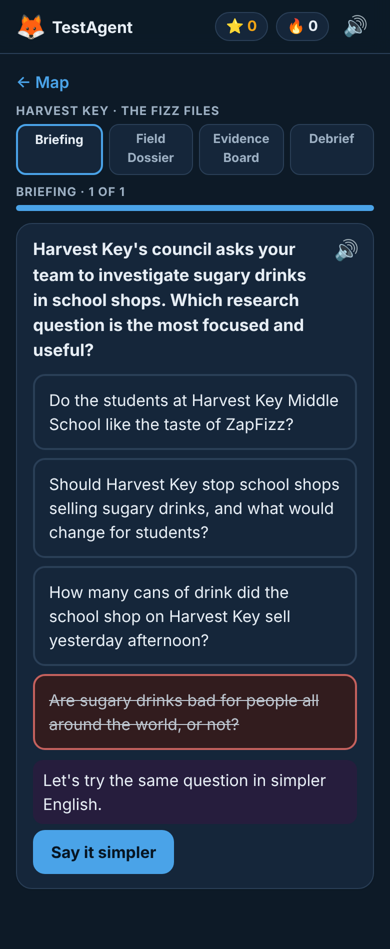
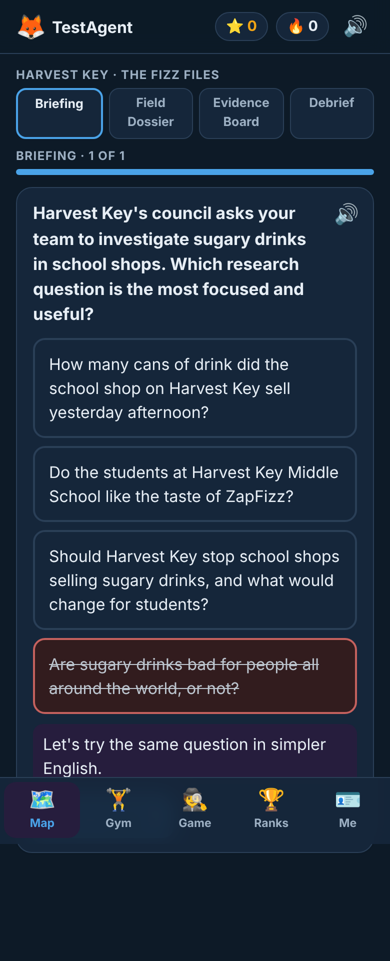
Make the app easier to use on phones
Bottom tab bar, feedback and Next scroll into view, Large text option,
first-run how-to-play card, add-to-home-screen manifest and icons, and
stop the game timers after leaving the page.

Claude-Session: https://claude.ai/code/session_01EAPUynE49AP6E55dj6PuSW

diff --git a/js/app.js b/js/app.js
@@ -28,11 +28,22 @@ function topbar() {
     <button class="icon" id="snd" aria-label="Sound on or off">${soundOn() ? "🔊" : "🔈"}</button>
   </header>`;
 }
-function page(html, { back = true } = {}) {
-  app.innerHTML = topbar() + `<main>${back ? `<a class="back" href="#/">← Map</a>` : ""}${html}</main>`;
+// Bottom tab bar: one thumb reaches everything on a phone.
+const TABS = [["#/", "🗺", "Map"], ["#/gym", "🏋", "Gym"], ["#/game", "🕵", "Game"], ["#/board", "🏆", "Ranks"], ["#/me", "🪪", "Me"]];
+function tabbar() {
+  const h = location.hash || "#/", now = h === "#/mission" || h === "#" ? "#/" : h;
+  return `<nav class="tabs" aria-label="Main">${TABS.map(([href, ic, name]) =>
+    `<a href="${href}" class="${now === href ? "on" : ""}" ${now === href ? 'aria-current="page"' : ""}><span aria-hidden="true">${ic}</span>${name}</a>`).join("")}</nav>`;
+}
+function page(html) {
+  app.innerHTML = topbar() + `<main>${html}</main>` + tabbar();
   $("#snd").onclick = () => { setSound(!soundOn()); route(); };
+  // Tapping the tab you are already on starts that screen again (the hash doesn't change, so call it directly).
+  app.querySelectorAll(".tabs a").forEach(a => a.onclick = e => { if (a.getAttribute("href") === (location.hash || "#/")) { e.preventDefault(); route(); } });
   window.scrollTo(0, 0);
 }
+const reducedMotion = () => matchMedia("(prefers-reduced-motion: reduce)").matches;
+const bring = el => el && el.scrollIntoView({ block: "nearest", behavior: reducedMotion() ? "auto" : "smooth" });
 
 /* ---------------- sign in (demo) ---------------- */
 function signIn() {
@@ -72,7 +83,14 @@ function islandHealth(world) {
 function home() {
   const open = S.teacher().open, done = missionProgress();
   const nextPhase = MISSION.phases.find(ph => !S.history().some(h => h.text_id === `fizz-${ph.kind}`));
-  page(`
+  const intro = S.profile().seenIntro ? "" : `<section class="card intro">
+      <h3>Welcome, Agent ${esc(S.profile().nick)}!</h3>
+      <ol><li><b>Do the mission</b> on an open island. Check sources and decide what to trust.</li>
+        <li><b>Train in the Gym</b>. Questions get harder as you improve.</li>
+        <li><b>Need help with English?</b> Tap <span class="gl">purple words</span> or 🔊. Help never costs XP.</li></ol>
+      <p class="small">Tip: add this app to your home screen. iPhone: Share → Add to Home Screen. Android: menu ⋮ → Add to Home screen.</p>
+      <button class="btn" id="introOk">Got it</button></section>`;
+  page(`${intro}
     <section class="hero card">
       <p class="kicker">Today's mission · Harvest Key</p>
       <h2>${MISSION.title}</h2>
@@ -93,7 +111,8 @@ function home() {
         <span class="ic">${w.icon}</span><b>${w.island}</b><small>${w.challenge} · ${w.title}</small>
         ${isOpen ? `<div class="bar health" title="Island health"><i style="width:${h}%"></i></div><small>Island health ${h}%${stamp ? " · 🛂" : ""}</small>`
                  : `<small class="lock">🔒 Opens with ${w.challenge} (${w.weeks})</small>`}
-      </${isOpen && w.missions ? "a" : "div"}>`; }).join("")}</div>`, { back: false });
+      </${isOpen && w.missions ? "a" : "div"}>`; }).join("")}</div>`);
+  const ok = $("#introOk"); if (ok) ok.onclick = () => { S.updateProfile({ seenIntro: true }); home(); };
 }
 
 /* ---------------- a question, at the student's support level ---------------- */
@@ -138,6 +157,7 @@ function runItems(ids, { title, onDone, pick } = {}) {
       box.querySelectorAll(".say").forEach(b => b.onclick = () => { help++; say(b.dataset.say === "src" ? SOURCES[it.source][wrap.text].replace(/\*\*/g, "") : it.stem[wrap.stem]); });
       box.querySelectorAll(".opt").forEach(b => b.onclick = () => choose(+b.dataset.k, b));
     }
+    const settle = () => requestAnimationFrame(() => bring(box.querySelector(".fb").lastElementChild));
     function choose(k, btn) {
       const o = it.options[k], fb = box.querySelector(".fb");
       if (k === 0) {
@@ -153,12 +173,12 @@ function runItems(ids, { title, onDone, pick } = {}) {
       if (tries === 1 && wrap.simpler && !simplified) {
         simplified = true; wrap = wrapping(1);
         fb.innerHTML = `<p class="info">Let's try the same question in simpler English.</p><button class="btn" id="cont">Say it simpler</button>`;
-        box.querySelector("#cont").onclick = draw; return;
+        box.querySelector("#cont").onclick = () => { draw(); box.scrollIntoView({ block: "start" }); }; settle(); return;
       }
       if ((tries === 1) || (simplified && tries === 2)) {
         play("info");
         fb.innerHTML = `<p class="info">💡 Hint: ${esc(it.hint)}</p>${o.trap && TRAPS[o.trap] ? `<p class="small">Watch out: <b>${TRAPS[o.trap].name}</b>. ${TRAPS[o.trap].tip}</p>` : ""}`;
-        return;
+        settle(); return;
       }
       box.querySelectorAll(".opt").forEach(b => { b.disabled = true; if (+b.dataset.k === 0) b.classList.add("right"); });
       finish({ support: "explained" }, `<p class="info">The answer is shown in green.</p><p>${esc(it.explain)}</p><p class="skilltag">${skillLine(it)}</p>`);
@@ -169,7 +189,8 @@ function runItems(ids, { title, onDone, pick } = {}) {
       answers.push(a); i++;
       const fb = box.querySelector(".fb");
       fb.innerHTML = html + `<button class="btn" id="next">${(pick ? answers.length >= ids : i >= ids.length) ? "Finish" : "Next"}</button>`;
-      box.querySelector("#next").onclick = show; box.querySelector("#next").focus();
+      box.querySelector("#next").onclick = () => { show(); box.scrollIntoView({ block: "start" }); };
+      box.querySelector("#next").focus({ preventScroll: true }); settle();
     }
     draw();
   }
@@ -316,6 +337,7 @@ function game() {
   let i = 0, pts = 0, combo = 0, timer = null;
   const draw = () => {
     clearTimeout(timer);
+    if (!arena.isConnected) return;                 // the student left the game: stop quietly
     if (i >= cards.length) return end();
     const c = cards[i]; $("#gleft").textContent = `${i + 1}/${cards.length}`;
     $("#gcard").innerHTML = `<p class="gt">${esc(c.t)}</p><div class="tb"><button class="btn trust" data-v="1">👍 Trust</button><button class="btn bust" data-v="0">🚫 Bust</button></div><p class="gwhy"></p>`;
@@ -324,6 +346,7 @@ function game() {
   };
   const answer = (v, e) => {
     clearTimeout(timer);
+    if (!arena.isConnected) return;
     const c = cards[i], ok = v === c.ok, r = arena.getBoundingClientRect();
     const x = e ? e.clientX - r.left : r.width / 2, y = e ? e.clientY - r.top : r.height / 2;
     if (ok) { combo++; const g = 100 + 20 * (combo - 1); pts += g; FX.flash(arena); FX.burst(arena, x, y); FX.floatText(arena, x, y, `+${g}`); }
@@ -341,7 +364,7 @@ function game() {
     $("#again").onclick = game;
     if (xp) Cel.set(xp); else play("done");
   };
-  FX.countdown(arena, draw);
+  FX.countdown(arena, () => arena.isConnected && draw());
 }
 
 /* ---------------- leaderboards ---------------- */
@@ -380,14 +403,19 @@ function me() {
     <h3 class="sec">English help</h3>
     <section class="card"><div class="levels">${SUPPORT.map((s, i) => `<label class="lv"><input type="radio" name="sup" value="${i}" ${i === prof.support ? "checked" : ""}><b>${s.name}</b><span>${s.desc}</span></label>`).join("")}</div>
     <p class="small">The app also adjusts this for you. More help never costs XP.</p></section>
+    <h3 class="sec">Text size</h3>
+    <section class="card"><div class="seg">${[["Normal", false], ["Large", true]].map(([n, v]) => `<button class="segb${!!prof.bigText === v ? " on" : ""}" data-big="${v}">${n}</button>`).join("")}</div></section>
     <button class="btn ghost" id="out">Sign out and reset demo</button>`);
+  app.querySelectorAll("[data-big]").forEach(b => b.onclick = () => { S.updateProfile({ bigText: b.dataset.big === "true" }); applyText(); me(); });
   app.querySelectorAll("input[name=sup]").forEach(x => x.onchange = () => { S.updateProfile({ support: +x.value, tasks: [] }); play("tap"); });
   $("#out").onclick = () => { if (confirm("Reset the demo? Your demo progress in this browser will be deleted.")) { S.signOut(); location.hash = ""; route(); } };
 }
 
 /* ---------------- routing ---------------- */
 const ROUTES = { "": home, "/": home, "/mission": missionScreen, "/gym": gym, "/game": game, "/board": board, "/me": me };
+const applyText = () => document.documentElement.classList.toggle("big-text", !!(S.profile() && S.profile().bigText));
 function route() {
+  applyText();
   if (!S.profile()) return signIn();
   soundUser(S.profile().nick);
   (ROUTES[location.hash.replace(/^#/, "")] || home)();

diff --git a/assets/style.css b/assets/style.css
@@ -12,9 +12,13 @@
     --good-bg: #133524; --bad-bg: #3a1a18; --info-bg: #261d3d; --sea: #12324a; color-scheme: dark; }
 }
 * { box-sizing: border-box; }
-html { -webkit-text-size-adjust: 100%; }
-body { margin: 0; background: var(--bg); color: var(--ink); font: 16px/1.5 system-ui, -apple-system, "Segoe UI", Roboto, sans-serif; }
-main { max-width: 640px; margin: 0 auto; padding: 12px 16px 48px; }
+html { -webkit-text-size-adjust: 100%; font-size: 16px; }
+html.big-text { font-size: 19px; }
+body { margin: 0; background: var(--bg); color: var(--ink); font: 1rem/1.5 system-ui, -apple-system, "Segoe UI", Roboto, sans-serif; }
+main { max-width: 640px; margin: 0 auto; padding: 12px 16px calc(96px + env(safe-area-inset-bottom)); }
+body.teacher main { padding-bottom: 48px; }
+button, a, input, label { touch-action: manipulation; }
+.runner { scroll-margin-top: 64px; } .fb > * { scroll-margin-bottom: 84px; }
 main.wide { max-width: 1100px; }
 h1, h2, h3, h4 { font-family: var(--f-head); line-height: 1.2; margin: .4em 0; }
 h1 { font-size: 1.8rem; } h2 { font-size: 1.4rem; } h3 { font-size: 1.1rem; }
@@ -151,3 +155,18 @@ a.island { border-color: var(--good); }
 .toggles { display: grid; gap: 4px; } .toggles label { font-weight: 400; margin: 4px 0; }
 
 @media (prefers-reduced-motion: reduce) { .bar i { transition: none; } }
+
+/* bottom tab bar */
+.tabs { position: fixed; left: 0; right: 0; bottom: 0; z-index: 20; display: grid; grid-template-columns: repeat(5, 1fr);
+  background: color-mix(in srgb, var(--card) 94%, transparent); backdrop-filter: blur(10px); border-top: 1px solid var(--line);
+  padding: 4px max(4px, env(safe-area-inset-right)) max(6px, env(safe-area-inset-bottom)) max(4px, env(safe-area-inset-left)); }
+.tabs a { display: flex; flex-direction: column; align-items: center; gap: 1px; padding: 6px 0; min-height: 52px; border-radius: 12px;
+  text-decoration: none; color: var(--muted); font-size: .72rem; font-weight: 700; }
+.tabs a span { font-size: 1.35rem; line-height: 1.2; }
+.tabs a.on { color: var(--brand); background: var(--info-bg); }
+@media (min-width: 700px) { .tabs { left: 50%; right: auto; width: 640px; translate: -50% 0; border: 1px solid var(--line); border-bottom: 0; border-radius: 16px 16px 0 0; } }
+/* first-run card, segmented control */
+.intro { border: 2px solid var(--accent); } .intro ol { padding-left: 1.2em; margin: 6px 0; } .intro li { margin: 4px 0; }
+.seg { display: grid; grid-template-columns: 1fr 1fr; gap: 6px; }
+.segb { font: 700 1rem var(--f-head); padding: 12px; border-radius: 12px; border: 2px solid var(--line); background: var(--card); color: var(--ink); cursor: pointer; min-height: 48px; }
+.segb.on { border-color: var(--brand); background: var(--info-bg); }

diff --git a/index.html b/index.html
@@ -5,6 +5,13 @@
 <meta name="viewport" content="width=device-width, initial-scale=1, viewport-fit=cover">
 <meta name="theme-color" content="#123a5c">
 <title>Global Visions</title>
+<link rel="manifest" href="manifest.webmanifest">
+<link rel="icon" href="assets/icons/icon-192.png">
+<link rel="apple-touch-icon" href="assets/icons/apple-touch-icon.png">
+<meta name="apple-mobile-web-app-capable" content="yes">
+<meta name="mobile-web-app-capable" content="yes">
+<meta name="apple-mobile-web-app-title" content="Global Visions">
+<meta name="apple-mobile-web-app-status-bar-style" content="black-translucent">
 <link rel="stylesheet" href="assets/style.css">
 <link rel="stylesheet" href="assets/celebrate.css">
 <link rel="stylesheet" href="assets/game-fx.css">

diff --git a/README.md b/README.md
@@ -21,6 +21,8 @@ for this repo. Open `teacher.html` for the teacher view.
   At Light and Open, a wrong answer first gets "Say it simpler"; right after that counts as a language barrier, not a thinking miss.
 - **Thinking traps** on every wrong option, a trap tracker, and adaptive Think Gym practice.
 - **Trust or Bust** game, leaderboards (nicknames only, weekly reset, growth board, class goal), Agent ID, passport.
+- **Phone first**: bottom tab bar (Map, Gym, Game, Ranks, Me), feedback and Next button scroll into view,
+  Normal/Large text switch, a short how-to-play card on first visit, and it can be added to the home screen like an app.
 - **Teacher view**: both dials side by side, block heat map, top trap per student, island and leaderboard switches.
 
 ## How it is built
